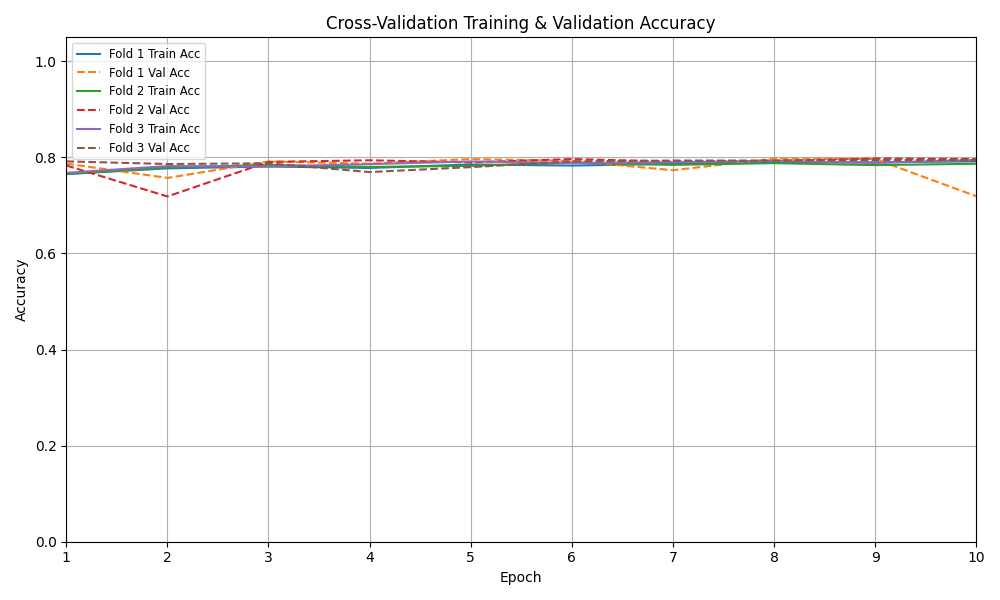
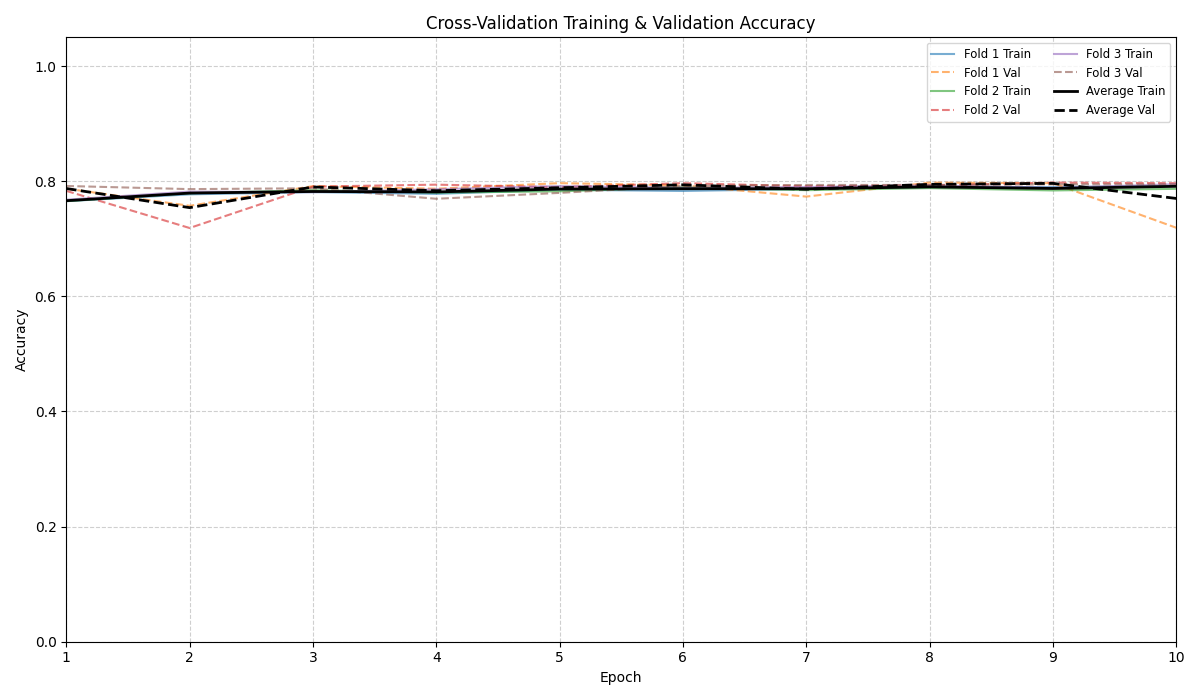
Update evaluation metrics and enhance plotting functionality. Modify final evaluation metrics to reflect new loss and accuracy values. Add new figure for test loss per fold and improve CV summary plots with average lines for metrics. Update training history with revised values.

diff --git a/src/train_classifier.py b/src/train_classifier.py
@@ -214,35 +214,72 @@ def load_history(filepath):
         return None
 
 def plot_metric(histories, metric_key_base, title, ylabel, output_path):
-    """Plots a specific metric (loss or accuracy) for multiple training histories."""
-    plt.figure(figsize=(10, 6))
+    """Plots a specific metric (loss or accuracy) for multiple training histories, optionally adding average lines for CV."""
+    plt.figure(figsize=(12, 7)) # Slightly wider for potentially more labels
     num_epochs = 0
     plot_has_data = False # Flag to check if any data was actually plotted
+    is_cv = len(histories) > 1
+    all_train_metrics = []
+    all_val_metrics = []
 
     for i, history in enumerate(histories):
         if history:
             train_key = f'train_{metric_key_base}'
             val_key = f'val_{metric_key_base}'
-            fold_label = f"Fold {i+1}" if len(histories) > 1 else "Run"
+            fold_label = f"Fold {i+1}" if is_cv else "Run"
 
             if train_key in history and val_key in history and len(history[train_key]) > 0:
                 epochs = range(1, len(history[train_key]) + 1)
                 num_epochs = max(num_epochs, len(epochs)) # Track max epochs across folds
-                plt.plot(epochs, history[train_key], label=f'{fold_label} Train {metric_key_base.capitalize()}')
-                plt.plot(epochs, history[val_key], linestyle='--', label=f'{fold_label} Val {metric_key_base.capitalize()}')
+                
+                # Store for averaging later if CV
+                if is_cv:
+                    # Ensure lengths match max_len found during loading (already padded)
+                    all_train_metrics.append(history[train_key])
+                    all_val_metrics.append(history[val_key])
+
+                # Plot individual lines (slightly transparent for CV)
+                alpha = 0.6 if is_cv else 1.0
+                line_style_train = '-'
+                line_style_val = '--'
+                plt.plot(epochs, history[train_key], linestyle=line_style_train, alpha=alpha, label=f'{fold_label} Train')
+                plt.plot(epochs, history[val_key], linestyle=line_style_val, alpha=alpha, label=f'{fold_label} Val')
                 plot_has_data = True
-            # else: # Optional: be less verbose if keys/data missing, already warned by load_history
-            #     print(f"Warning: Missing keys or empty data for '{train_key}' or '{val_key}' in history {i+1}.")
+
+    # Add average lines if CV and data exists
+    if is_cv and plot_has_data and all_train_metrics and all_val_metrics:
+        try:
+            # Pad shorter histories again just in case (should be handled by load_history)
+            max_len_actual = max(len(m) for m in all_train_metrics + all_val_metrics)
+            padded_train = [m + [np.nan]*(max_len_actual - len(m)) for m in all_train_metrics]
+            padded_val = [m + [np.nan]*(max_len_actual - len(m)) for m in all_val_metrics]
+
+            mean_train = np.nanmean(np.array(padded_train), axis=0)
+            mean_val = np.nanmean(np.array(padded_val), axis=0)
+            # std_train = np.nanstd(np.array(padded_train), axis=0) # Optional: add std dev shading
+            # std_val = np.nanstd(np.array(padded_val), axis=0)    # Optional: add std dev shading
+
+            avg_epochs = range(1, len(mean_train) + 1)
+            plt.plot(avg_epochs, mean_train, color='black', linestyle='-', linewidth=2, label='Average Train')
+            plt.plot(avg_epochs, mean_val, color='black', linestyle='--', linewidth=2, label='Average Val')
+
+            # Optional: Fill between for std deviation
+            # plt.fill_between(avg_epochs, mean_train - std_train, mean_train + std_train, color='blue', alpha=0.1)
+            # plt.fill_between(avg_epochs, mean_val - std_val, mean_val + std_val, color='orange', alpha=0.1)
+        except Exception as e:
+            print(f"Warning: Could not calculate or plot average lines for {metric_key_base}: {e}")
+
 
     if plot_has_data: # Only finalize plot if data was plotted
         plt.title(title)
         plt.xlabel('Epoch')
         plt.ylabel(ylabel)
-        plt.xlim(1, num_epochs) # Adjust x-axis limits based on the actual number of epochs plotted
-        if 'acc' in metric_key_base:
+        if num_epochs > 0 : plt.xlim(1, num_epochs) # Adjust x-axis limits
+        if 'acc' in metric_key_base.lower(): # Check 'acc' instead of exact match
              plt.ylim(0, 1.05) # Extend slightly beyond 1.0
-        plt.legend(loc='best', fontsize='small') # Adjust legend location and size
-        plt.grid(True)
+        # Adjust legend placement and size
+        plt.legend(loc='best', fontsize='small', ncol=2 if is_cv else 1) # Use 2 columns for CV legend
+        plt.grid(True, linestyle='--', alpha=0.6)
         plt.tight_layout()
         plt.savefig(output_path)
         plt.close() # Close the figure to free memory
@@ -253,69 +290,102 @@ def plot_metric(histories, metric_key_base, title, ylabel, output_path):
 
 
 def plot_cv_summary(cv_summary_path, output_dir):
-    """Plots the final test metrics per fold from the CV summary."""
+    """Plots the final test metrics per fold, separating Loss and adding averages."""
     try:
         with open(cv_summary_path, 'r') as f:
             summary = json.load(f)
-    except FileNotFoundError:
-        print(f"Warning: CV summary file not found: {cv_summary_path}")
-        return
-    except json.JSONDecodeError:
-        print(f"Warning: Could not decode JSON from: {cv_summary_path}")
-        return
     except Exception as e:
-        print(f"Warning: An error occurred loading {cv_summary_path}: {e}")
+        print(f"Warning: Could not load or parse CV summary file {cv_summary_path}: {e}")
         return
 
     metrics_per_fold = summary.get('test_metrics_per_fold', [])
-    if not metrics_per_fold:
-        print("Warning: No 'test_metrics_per_fold' found in CV summary.")
+    avg_metrics = summary.get('average_test_metrics', {}) # Get averages too
+
+    if not metrics_per_fold or not isinstance(metrics_per_fold[0], dict):
+        print("Warning: No valid 'test_metrics_per_fold' list of dicts found in CV summary.")
         return
 
-    # Dynamically get metric keys from the first fold (ensure consistency or handle errors)
-    if not isinstance(metrics_per_fold[0], dict):
-         print("Warning: 'test_metrics_per_fold' does not contain dictionaries.")
-         return
-    metric_keys = [k for k in metrics_per_fold[0].keys() if k != 'loss'] # Exclude loss for bar plot
-    if not metric_keys:
-        print("Warning: No suitable metric keys found (excluding 'loss') in CV summary.")
+    # Separate keys for primary metrics and loss
+    primary_metric_keys = [k for k in metrics_per_fold[0].keys() if k != 'loss']
+    loss_key = 'loss' if 'loss' in metrics_per_fold[0] else None
+
+    if not primary_metric_keys and not loss_key:
+        print("Warning: No metric keys found in CV summary.")
         return
 
     num_folds = len(metrics_per_fold)
     folds = [f"Fold {i+1}" for i in range(num_folds)]
-
-    num_metrics = len(metric_keys)
-    bar_width = 0.8 / num_metrics # Adjust bar width based on number of metrics
     index = np.arange(num_folds)
 
-    plt.figure(figsize=(12, 7))
-    plot_has_data = False # Flag to check if any bars were added
+    # --- Plot 1: Primary Metrics (Accuracy, Precision, Recall, F1) ---
+    if primary_metric_keys:
+        num_metrics = len(primary_metric_keys)
+        bar_width = 0.8 / num_metrics # Adjust bar width based on number of metrics
 
-    for i, key in enumerate(metric_keys):
-        values = [fold_metrics.get(key, np.nan) for fold_metrics in metrics_per_fold]
-        # Check if we have valid values before plotting
-        if not all(np.isnan(values)):
-            plot_key = key.replace('_', ' ').capitalize()
-            plt.bar(index + i * bar_width, values, bar_width, label=plot_key)
-            plot_has_data = True
+        plt.figure(figsize=(12, 7))
+        plot_has_data = False
 
-    if plot_has_data:
-        plt.xlabel('Fold')
-        plt.ylabel('Score')
-        plt.title('Test Set Metrics per Fold (Cross-Validation)')
-        plt.xticks(index + bar_width * (num_metrics - 1) / 2, folds) # Center ticks between bars
-        plt.ylim(0, 1.05) # Set y-axis limit for typical metrics (0-1)
-        plt.legend(loc='best', fontsize='small')
-        plt.grid(axis='y', linestyle='--')
-        plt.tight_layout()
+        for i, key in enumerate(primary_metric_keys):
+            values = [fold_metrics.get(key, np.nan) for fold_metrics in metrics_per_fold]
+            if not all(np.isnan(values)):
+                plot_key_label = key.replace('_', ' ').capitalize()
+                # Plot bars
+                plt.bar(index + i * bar_width - (bar_width * (num_metrics-1) / 2) , values, bar_width, label=plot_key_label) # Center bars
+                # Plot average line
+                avg_value = avg_metrics.get(key, np.nan)
+                if not np.isnan(avg_value):
+                    plt.hlines(avg_value, index[0] - bar_width, index[-1] + bar_width * num_metrics,
+                               colors=plt.gca().patches[i*num_folds].get_facecolor(), # Match bar color
+                               linestyles='dashed', label=f'Avg {plot_key_label}: {avg_value:.3f}')
+                plot_has_data = True
 
-        output_path = os.path.join(output_dir, 'cv_test_metrics_per_fold.png')
-        plt.savefig(output_path)
-        plt.close() # Close the figure to free memory
-        print(f"Saved plot to {output_path}")
-    else:
-        plt.close() # Ensure figure is closed even if no data plotted
-        print("Skipping CV summary plot as no valid metric data was found.")
+        if plot_has_data:
+            plt.xlabel('Fold')
+            plt.ylabel('Score')
+            plt.title('Test Set Performance Metrics per Fold (Cross-Validation)')
+            plt.xticks(index, folds) # Place ticks at the center of each group of bars
+            plt.ylim(0, 1.05) # Set y-axis limit for typical metrics (0-1)
+            plt.legend(loc='best', fontsize='small')
+            plt.grid(axis='y', linestyle='--', alpha=0.6)
+            plt.tight_layout()
+            output_path = os.path.join(output_dir, 'cv_test_metrics_per_fold.png') # Keep original name or change if desired
+            plt.savefig(output_path)
+            plt.close()
+            print(f"Saved plot to {output_path}")
+        else:
+            plt.close()
+            print("Skipping primary CV summary plot as no valid metric data was found.")
+
+    # --- Plot 2: Loss ---
+    if loss_key:
+        loss_values = [fold_metrics.get(loss_key, np.nan) for fold_metrics in metrics_per_fold]
+
+        if not all(np.isnan(loss_values)):
+            plt.figure(figsize=(10, 6))
+            plt.bar(index, loss_values, label='Test Loss')
+
+            # Plot average loss line
+            avg_loss = avg_metrics.get(loss_key, np.nan)
+            if not np.isnan(avg_loss):
+                 plt.hlines(avg_loss, index[0]-0.5, index[-1]+0.5, colors='red', linestyles='dashed', label=f'Avg Loss: {avg_loss:.4f}')
+
+            plt.xlabel('Fold')
+            plt.ylabel('Loss')
+            plt.title('Test Set Loss per Fold (Cross-Validation)')
+            plt.xticks(index, folds)
+            min_loss = np.nanmin(loss_values) if not all(np.isnan(loss_values)) else 0
+            max_loss = np.nanmax(loss_values) if not all(np.isnan(loss_values)) else 1
+            plt.ylim(min_loss * 0.9, max_loss * 1.1) # Adjust y-limits based on data
+            plt.legend(loc='best', fontsize='small')
+            plt.grid(axis='y', linestyle='--', alpha=0.6)
+            plt.tight_layout()
+            output_path = os.path.join(output_dir, 'cv_test_loss_per_fold.png') # Separate file for loss
+            plt.savefig(output_path)
+            plt.close()
+            print(f"Saved plot to {output_path}")
+        else:
+            plt.close()
+            print("Skipping CV loss plot as no valid loss data was found.")
 
 
 def generate_plots(metrics_dir, figures_dir):
@@ -543,8 +613,9 @@ if __name__ == '__main__':
     # Check if matplotlib is available before starting potentially long training
     try:
         import matplotlib.pyplot as plt
-    except ImportError:
-        print("Warning: Matplotlib not found. Plots will not be generated after training.")
-        print("Install matplotlib to generate plots: pip install matplotlib")
+        import numpy # Also check numpy which is now used more explicitly
+    except ImportError as e:
+        print(f"Warning: Missing plotting dependency ({e}). Plots will not be generated.")
+        print("Install dependencies to generate plots: pip install matplotlib numpy")
 
     main(args)
